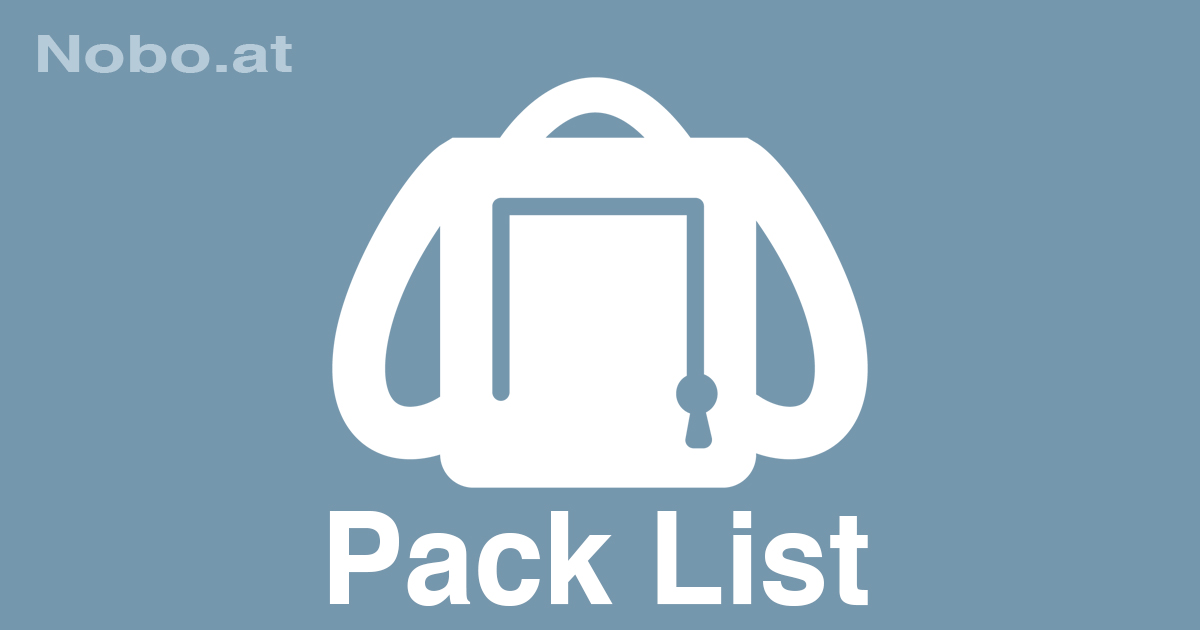
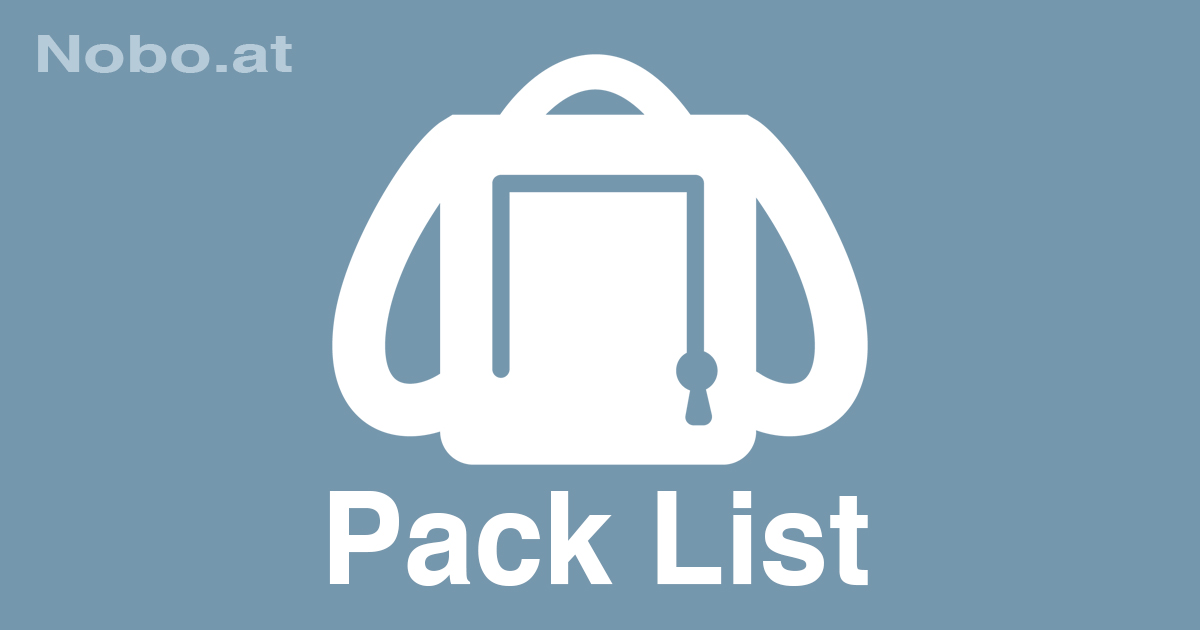
created new facebook share image

diff --git a/resources/views/layouts/app.blade.php b/resources/views/layouts/app.blade.php
@@ -17,7 +17,7 @@
     <meta property="og:url" content="{{url()->current()}}" />
     <meta property="og:type" content="website" />
     <meta property="og:title" content="{{ config('app.name') }}" />
-    <meta property="og:image" content="{{config('app.url')}}/images/packs/facebook-share.jpg?v=3" />
+    <meta property="og:image" content="{{config('app.url')}}/images/packs/facebook-share.jpg?v=4" />
     <meta property="og:image:width" content="1200" />
     <meta property="og:image:height" content="630" />
 </head>
